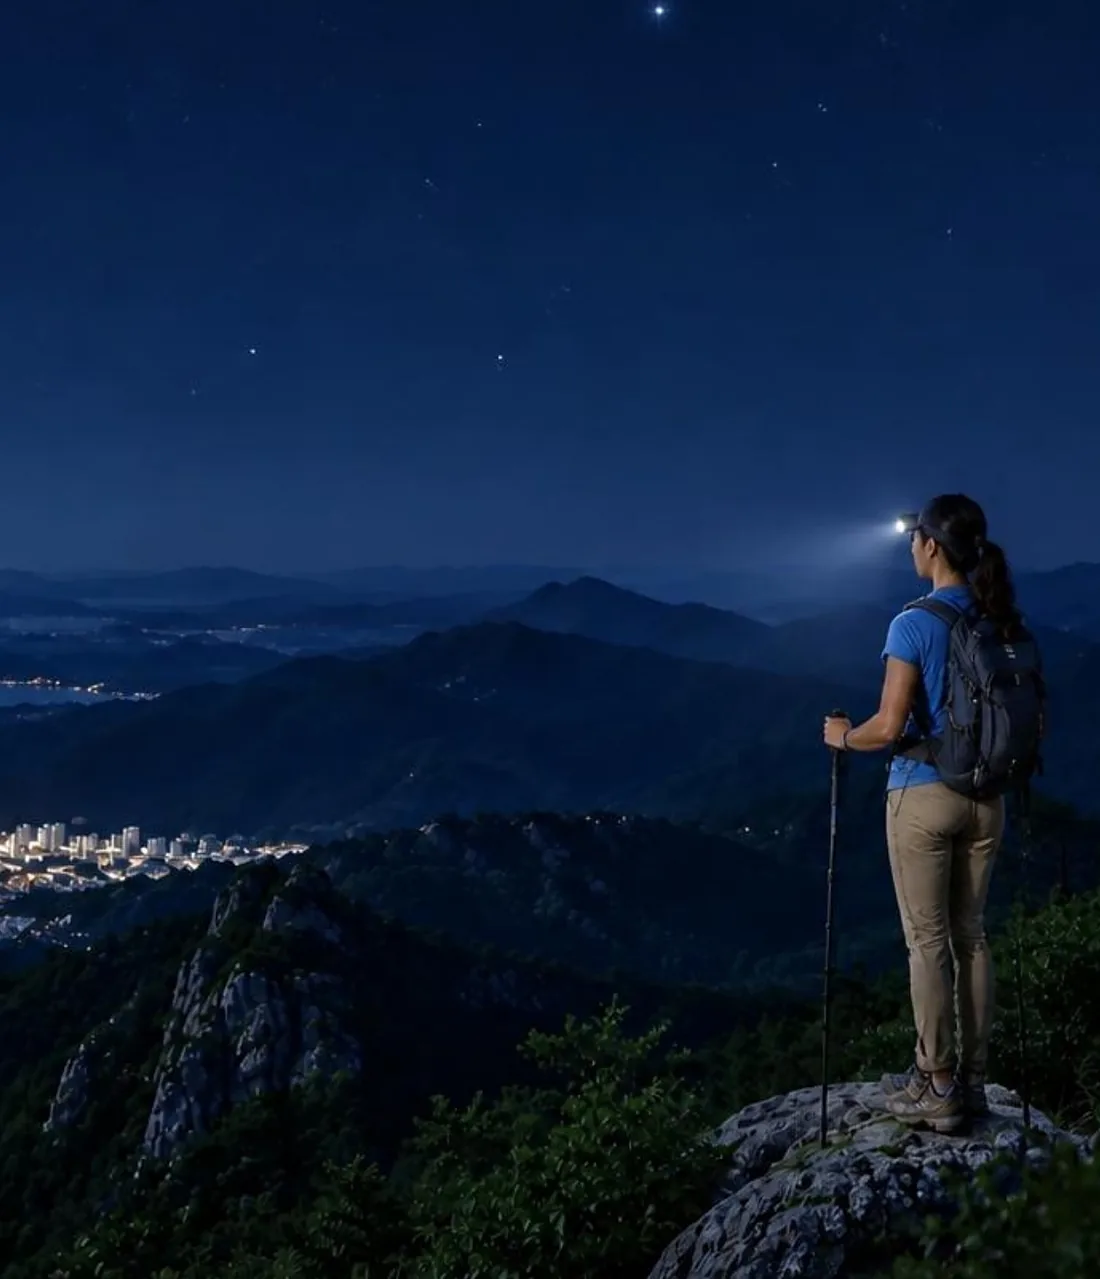
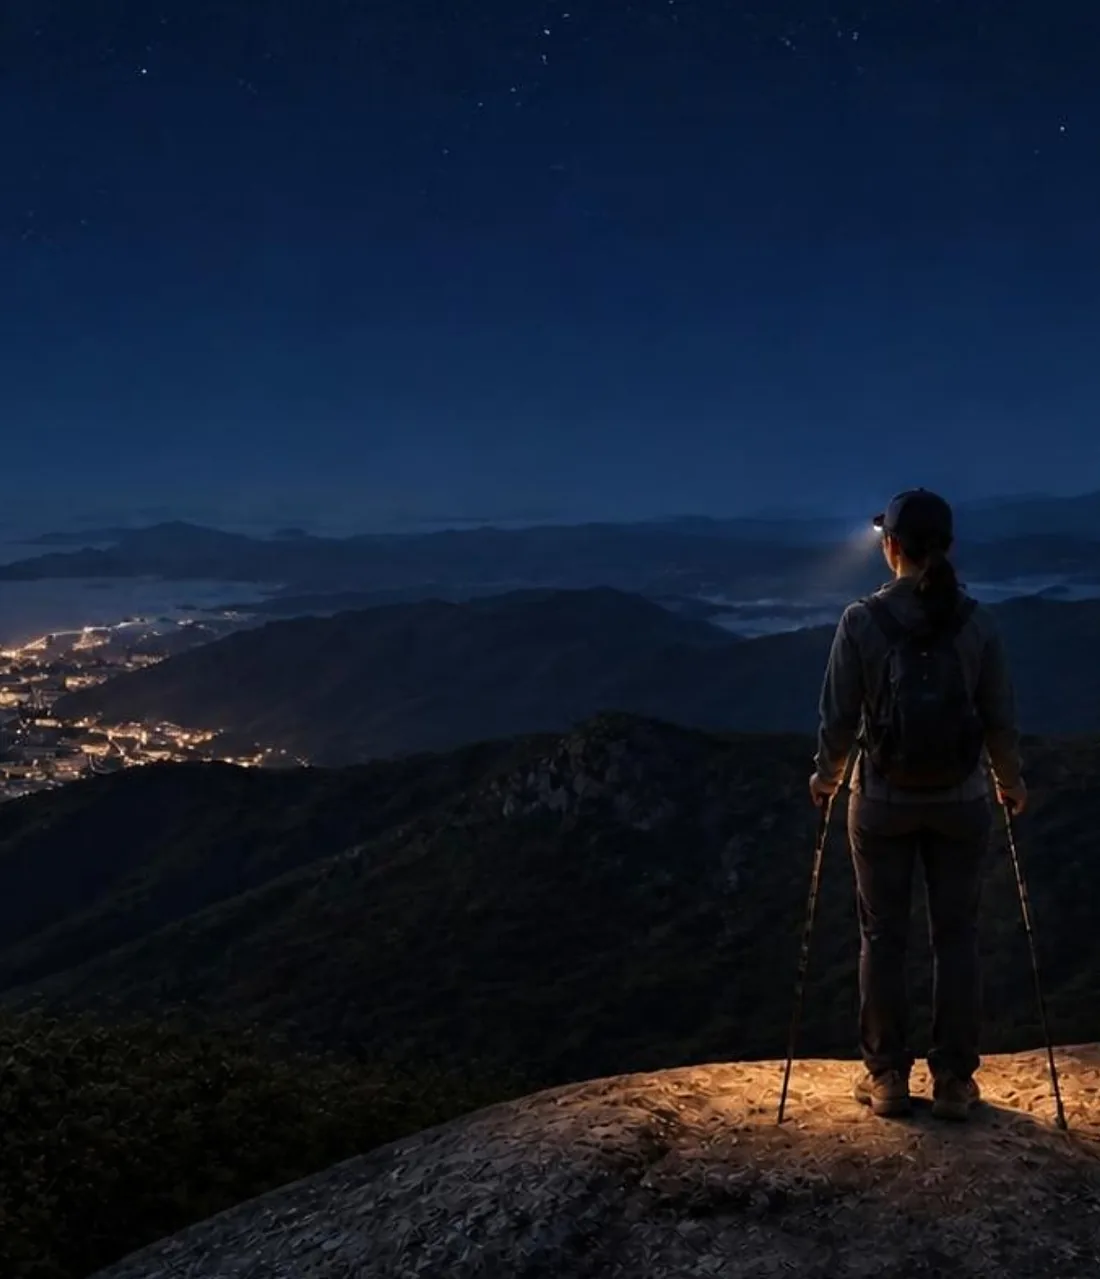
히어로 여름 심야 v11 적용 (승인 참조 기준 검수 통과)
Claude-Session: https://claude.ai/code/session_01TTPn3ts8fEyWREDupZmwxM

diff --git a/_src.html b/_src.html
@@ -13,7 +13,7 @@
 (function(){var k="";try{var d=new Date(),M=d.getMonth()+1,h=d.getHours();
 var s=M>=3&&M<=5?"spring":M>=6&&M<=8?"summer":M>=9&&M<=11?"autumn":"winter";
 var t=h>=4&&h<7?"dawn":h>=7&&h<17?"day":h>=17&&h<21?"evening":"night";k=s+"-"+t;
-var READY={"spring-dawn":1,"spring-day":1,"spring-evening":1,"spring-night":1,"summer-dawn":1,"summer-day":1,"summer-evening":1};/* 검수 통과분만 노출, 나머지는 원본 히어로 */
+var READY={"spring-dawn":1,"spring-day":1,"spring-evening":1,"spring-night":1,"summer-dawn":1,"summer-day":1,"summer-evening":1,"summer-night":1};/* 검수 통과분만 노출, 나머지는 원본 히어로 */
 window.__heroReady=READY;if(!READY[k])k="";
 var q=/[?&]hero=((?:spring|summer|autumn|winter)-(?:dawn|day|evening|night))(?:&|$)/.exec(location.search);if(q&&READY[q[1]])k=q[1];}catch(e){k="";}
 window.__hero=k;var a=k?"/img/hero/"+k:"/img/hero",b=k?"/img/hero/"+k+"-m.webp":"/img/hero-m.webp";
@@ -333,7 +333,7 @@ footer{background:var(--dark);color:rgba(255,255,255,.5);border-top:1px solid rg
       <img class="bg" id="heroImg" width="2560" height="1280" alt="산 정상 바위에 서서 다도해와 겹겹의 산줄기를 바라보는 등산객" fetchpriority="high" />
     </picture>
     <script>(function(){var k=window.__hero,i=document.getElementById("heroImg"),s=document.getElementById("heroSrc"),w=document.getElementById("bgwrap");
-var C={"spring-dawn":["#c79d96","#43383d"],"spring-day":["#6fb0dc","#6d6f5e"],"spring-evening":["#db9d6b","#492b22"],"spring-night":["#0c1829","#0f0e13"],"summer-dawn":["#cab3a1","#39403e"],"summer-day":["#82b6df","#40544d"],"summer-evening":["#c18d66","#3c3020"],"summer-night":["#0f2951","#0c1826"],"autumn-dawn":["#9482ba","#5c4159"],"autumn-day":["#81b5db","#6b5e5b"],"autumn-evening":["#c69164","#693821"],"autumn-night":["#1b293a","#17151a"],"winter-dawn":["#a8acce","#475986"],"winter-day":["#afcfee","#77879c"],"winter-evening":["#8d7575","#4e3f4f"],"winter-night":["#182742","#1c273d"]};function fb(){s.srcset="/img/hero-m.webp";i.src="/img/hero.webp";w.style.backgroundImage="";}
+var C={"spring-dawn":["#c79d96","#43383d"],"spring-day":["#6fb0dc","#6d6f5e"],"spring-evening":["#db9d6b","#492b22"],"spring-night":["#0c1829","#0f0e13"],"summer-dawn":["#cab3a1","#39403e"],"summer-day":["#82b6df","#40544d"],"summer-evening":["#c18d66","#3c3020"],"summer-night":["#0e2241","#17171b"],"autumn-dawn":["#9482ba","#5c4159"],"autumn-day":["#81b5db","#6b5e5b"],"autumn-evening":["#c69164","#693821"],"autumn-night":["#1b293a","#17151a"],"winter-dawn":["#a8acce","#475986"],"winter-day":["#afcfee","#77879c"],"winter-evening":["#8d7575","#4e3f4f"],"winter-night":["#182742","#1c273d"]};function fb(){s.srcset="/img/hero-m.webp";i.src="/img/hero.webp";w.style.backgroundImage="";}
 if(!k){fb();return;}i.addEventListener("error",function(){if(!i.getAttribute("data-fb")){i.setAttribute("data-fb","1");fb();}});
 if(C[k])w.style.backgroundImage="linear-gradient(180deg,"+C[k][0]+","+C[k][1]+")";
 s.srcset="/img/hero/"+k+"-m.webp";i.src="/img/hero/"+k+".webp";})();</script>

diff --git a/index.html b/index.html
@@ -13,7 +13,7 @@
 (function(){var k="";try{var d=new Date(),M=d.getMonth()+1,h=d.getHours();
 var s=M>=3&&M<=5?"spring":M>=6&&M<=8?"summer":M>=9&&M<=11?"autumn":"winter";
 var t=h>=4&&h<7?"dawn":h>=7&&h<17?"day":h>=17&&h<21?"evening":"night";k=s+"-"+t;
-var READY={"spring-dawn":1,"spring-day":1,"spring-evening":1,"spring-night":1,"summer-dawn":1,"summer-day":1,"summer-evening":1};/* 검수 통과분만 노출, 나머지는 원본 히어로 */
+var READY={"spring-dawn":1,"spring-day":1,"spring-evening":1,"spring-night":1,"summer-dawn":1,"summer-day":1,"summer-evening":1,"summer-night":1};/* 검수 통과분만 노출, 나머지는 원본 히어로 */
 window.__heroReady=READY;if(!READY[k])k="";
 var q=/[?&]hero=((?:spring|summer|autumn|winter)-(?:dawn|day|evening|night))(?:&|$)/.exec(location.search);if(q&&READY[q[1]])k=q[1];}catch(e){k="";}
 window.__hero=k;var a=k?"/img/hero/"+k:"/img/hero",b=k?"/img/hero/"+k+"-m.webp":"/img/hero-m.webp";
@@ -333,7 +333,7 @@ footer{background:var(--dark);color:rgba(255,255,255,.5);border-top:1px solid rg
       <img class="bg" id="heroImg" width="2560" height="1280" alt="산 정상 바위에 서서 다도해와 겹겹의 산줄기를 바라보는 등산객" fetchpriority="high" />
     </picture>
     <script>(function(){var k=window.__hero,i=document.getElementById("heroImg"),s=document.getElementById("heroSrc"),w=document.getElementById("bgwrap");
-var C={"spring-dawn":["#c79d96","#43383d"],"spring-day":["#6fb0dc","#6d6f5e"],"spring-evening":["#db9d6b","#492b22"],"spring-night":["#0c1829","#0f0e13"],"summer-dawn":["#cab3a1","#39403e"],"summer-day":["#82b6df","#40544d"],"summer-evening":["#c18d66","#3c3020"],"summer-night":["#0f2951","#0c1826"],"autumn-dawn":["#9482ba","#5c4159"],"autumn-day":["#81b5db","#6b5e5b"],"autumn-evening":["#c69164","#693821"],"autumn-night":["#1b293a","#17151a"],"winter-dawn":["#a8acce","#475986"],"winter-day":["#afcfee","#77879c"],"winter-evening":["#8d7575","#4e3f4f"],"winter-night":["#182742","#1c273d"]};function fb(){s.srcset="/img/hero-m.webp";i.src="/img/hero.webp";w.style.backgroundImage="";}
+var C={"spring-dawn":["#c79d96","#43383d"],"spring-day":["#6fb0dc","#6d6f5e"],"spring-evening":["#db9d6b","#492b22"],"spring-night":["#0c1829","#0f0e13"],"summer-dawn":["#cab3a1","#39403e"],"summer-day":["#82b6df","#40544d"],"summer-evening":["#c18d66","#3c3020"],"summer-night":["#0e2241","#17171b"],"autumn-dawn":["#9482ba","#5c4159"],"autumn-day":["#81b5db","#6b5e5b"],"autumn-evening":["#c69164","#693821"],"autumn-night":["#1b293a","#17151a"],"winter-dawn":["#a8acce","#475986"],"winter-day":["#afcfee","#77879c"],"winter-evening":["#8d7575","#4e3f4f"],"winter-night":["#182742","#1c273d"]};function fb(){s.srcset="/img/hero-m.webp";i.src="/img/hero.webp";w.style.backgroundImage="";}
 if(!k){fb();return;}i.addEventListener("error",function(){if(!i.getAttribute("data-fb")){i.setAttribute("data-fb","1");fb();}});
 if(C[k])w.style.backgroundImage="linear-gradient(180deg,"+C[k][0]+","+C[k][1]+")";
 s.srcset="/img/hero/"+k+"-m.webp";i.src="/img/hero/"+k+".webp";})();</script>
